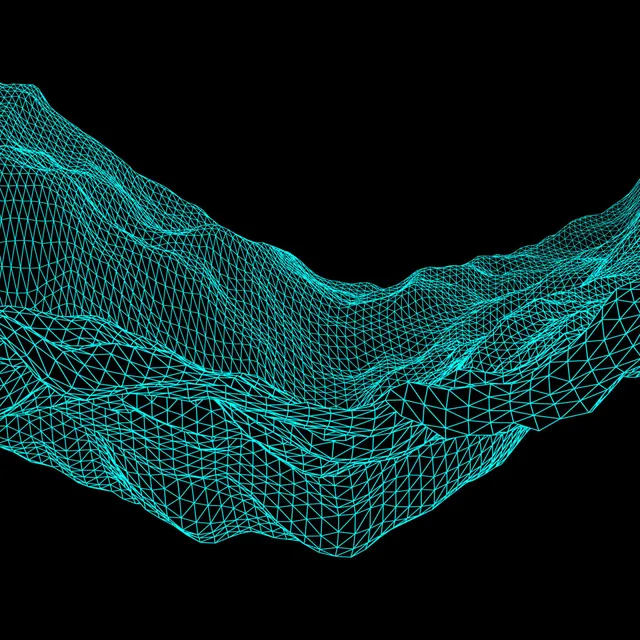
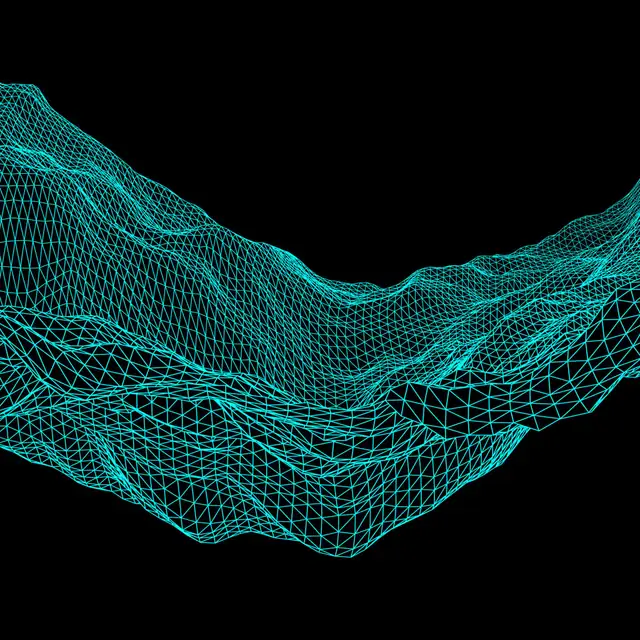
Remove placeholder KV binding that blocked Cloudflare deploy.

diff --git a/src/lib/rate-limit.ts b/src/lib/rate-limit.ts
@@ -1,10 +1,73 @@
-const buckets = new Map<string, { count: number; resetAt: number }>();
+import { getCloudflareContext } from "@opennextjs/cloudflare";
 
+interface KvBinding {
+  get(key: string): Promise<string | null>;
+  get(key: string, type: "json"): Promise<unknown>;
+  put(key: string, value: string, options?: { expirationTtl?: number }): Promise<void>;
+}
+
+const buckets = new Map<string, { count: number; resetAt: number }>();
 const WINDOW_MS = 15 * 60 * 1000;
 const MAX_REQUESTS = 8;
 const CLEANUP_INTERVAL_MS = 60 * 60 * 1000;
-
 let lastCleanup = Date.now();
+
+interface RateLimitBucket {
+  count: number;
+  resetAt: number;
+}
+
+let kvEnabled: boolean | null = null;
+
+function resolveKvBinding(): KvBinding | null {
+  try {
+    const ctx = getCloudflareContext();
+    const kv = ctx?.env?.RATE_LIMIT_KV as KvBinding | undefined;
+    kvEnabled = kv != null;
+    return kv ?? null;
+  } catch {
+    kvEnabled = false;
+    return null;
+  }
+}
+
+function getKvBinding(): KvBinding | null {
+  if (kvEnabled === null) {
+    return resolveKvBinding();
+  }
+  if (!kvEnabled) return null;
+  try {
+    return getCloudflareContext()?.env?.RATE_LIMIT_KV ?? null;
+  } catch {
+    kvEnabled = false;
+    return null;
+  }
+}
+
+async function checkKvRateLimit(kv: KvBinding, key: string): Promise<boolean> {
+  const kvKey = `rl:${key}`;
+
+  const raw = await kv.get(kvKey, "json");
+  const stored = raw as RateLimitBucket | null;
+  const now = Date.now();
+
+  if (!stored || now > stored.resetAt) {
+    await kv.put(kvKey, JSON.stringify({ count: 1, resetAt: now + WINDOW_MS } satisfies RateLimitBucket), {
+      expirationTtl: Math.ceil(WINDOW_MS / 1000),
+    });
+    return false;
+  }
+
+  if (stored.count >= MAX_REQUESTS) return true;
+
+  const remainingTtl = Math.max(1, Math.ceil((stored.resetAt - now) / 1000));
+  await kv.put(
+    kvKey,
+    JSON.stringify({ count: stored.count + 1, resetAt: stored.resetAt } satisfies RateLimitBucket),
+    { expirationTtl: remainingTtl },
+  );
+  return false;
+}
 
 function cleanup() {
   const now = Date.now();
@@ -31,9 +94,17 @@ export function getClientIp(request: Request): string {
   return "unknown";
 }
 
-export function isRateLimited(key: string): boolean {
-  cleanup();
+export async function isRateLimited(key: string): Promise<boolean> {
+  const kv = getKvBinding();
+  if (kv) {
+    try {
+      return await checkKvRateLimit(kv, key);
+    } catch {
+      kvEnabled = false;
+    }
+  }
 
+  cleanup();
   const now = Date.now();
   const bucket = buckets.get(key);
 

diff --git a/cloudflare-env.d.ts b/cloudflare-env.d.ts
@@ -1,0 +1,23 @@
+interface CloudflareEnv {
+  ASSETS: { fetch: (req: Request) => Promise<Response> };
+  WORKER_SELF_REFERENCE: { fetch: (req: Request) => Promise<Response> };
+
+  INDEXNOW_KEY?: string;
+  CONTACT_TO_EMAIL?: string;
+  GMAIL_USER?: string;
+  GMAIL_APP_PASSWORD?: string;
+  NEXT_PUBLIC_SITE_URL?: string;
+  NEXT_PUBLIC_GA_ID?: string;
+  NEXT_PUBLIC_CLARITY_ID?: string;
+  NEXT_PUBLIC_GSC_VERIFICATION?: string;
+  SENTRY_ORG?: string;
+  SENTRY_PROJECT?: string;
+  NEXT_PUBLIC_SENTRY_DSN?: string;
+  GOOGLE_PSI_API_KEY?: string;
+
+  RATE_LIMIT_KV?: {
+    get(key: string): Promise<string | null>;
+    get(key: string, type: "json"): Promise<unknown>;
+    put(key: string, value: string, options?: { expirationTtl?: number }): Promise<void>;
+  };
+}

diff --git a/src/app/api/contact/route.ts b/src/app/api/contact/route.ts
@@ -20,7 +20,7 @@ export async function POST(request: Request) {
     }
 
     const ip = getClientIp(request);
-    if (isRateLimited(`contact:${ip}`)) {
+    if (await isRateLimited(`contact:${ip}`)) {
       return NextResponse.json(
         { error: "Too many requests. Please try again later." },
         { status: 429 },

diff --git a/src/app/api/lead/route.ts b/src/app/api/lead/route.ts
@@ -19,7 +19,7 @@ export async function POST(request: Request) {
     }
 
     const ip = getClientIp(request);
-    if (isRateLimited(`lead:${ip}`)) {
+    if (await isRateLimited(`lead:${ip}`)) {
       return NextResponse.json(
         { error: "Too many requests. Please try again later." },
         { status: 429 },

diff --git a/src/lib/metadata.ts b/src/lib/metadata.ts
@@ -4,7 +4,7 @@ import { getHrefLang } from "@/i18n/locale-tags";
 
 const SITE_URL = (process.env.NEXT_PUBLIC_SITE_URL || "https://www.kinexisdigital.com").replace(/\/$/, "");
 
-export const DEFAULT_OG_IMAGE_PATH = "/assets/images/kinexis_OG_image.png";
+export const DEFAULT_OG_IMAGE_PATH = "/assets/images/kinexis_OG_image.webp";
 
 /** Square brand mark for Organization/LocalBusiness logo rich results (not the wide OG card). */
 export const ORGANIZATION_LOGO_PATH = "/assets/logos/KINEXIS_icon_logo.webp";